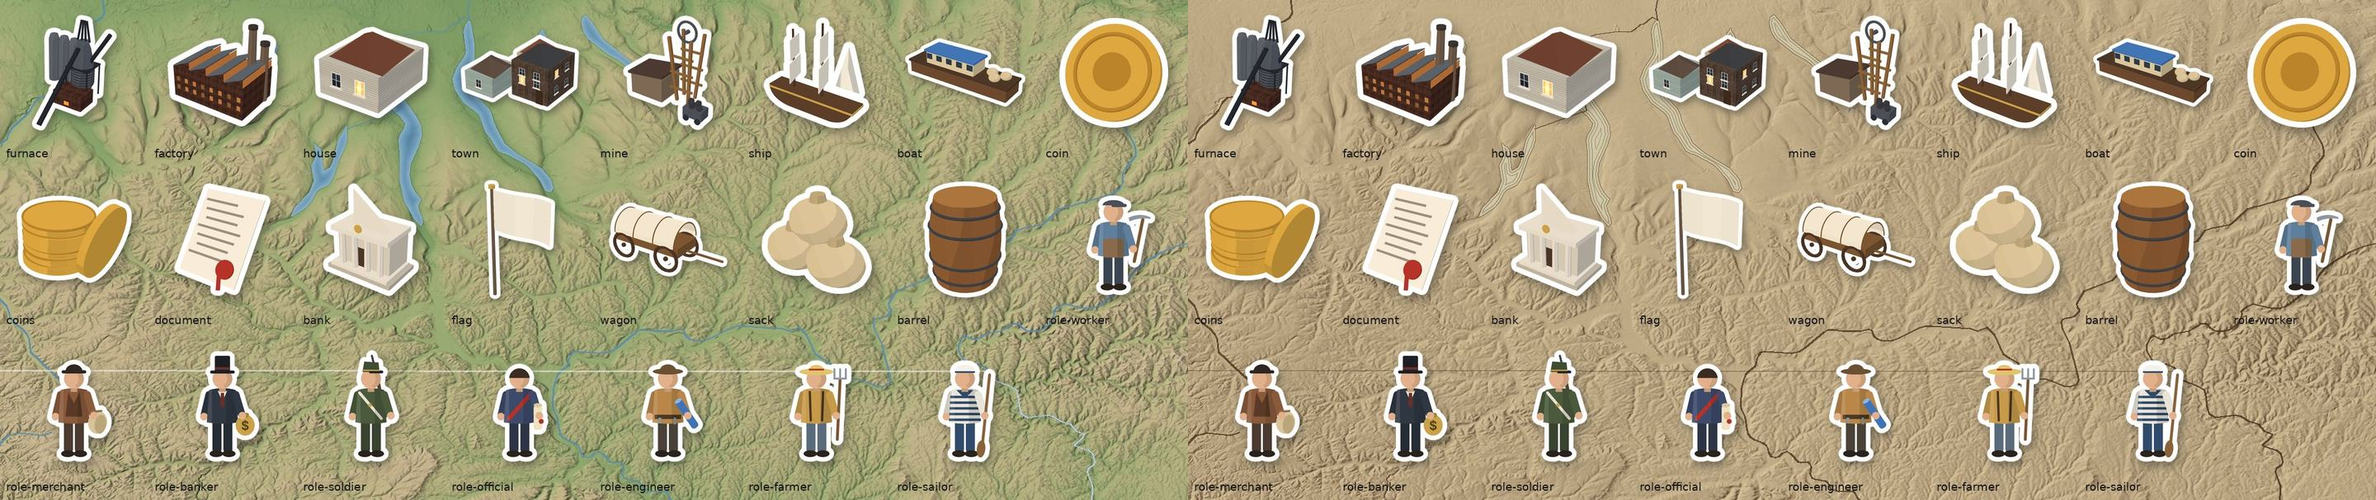
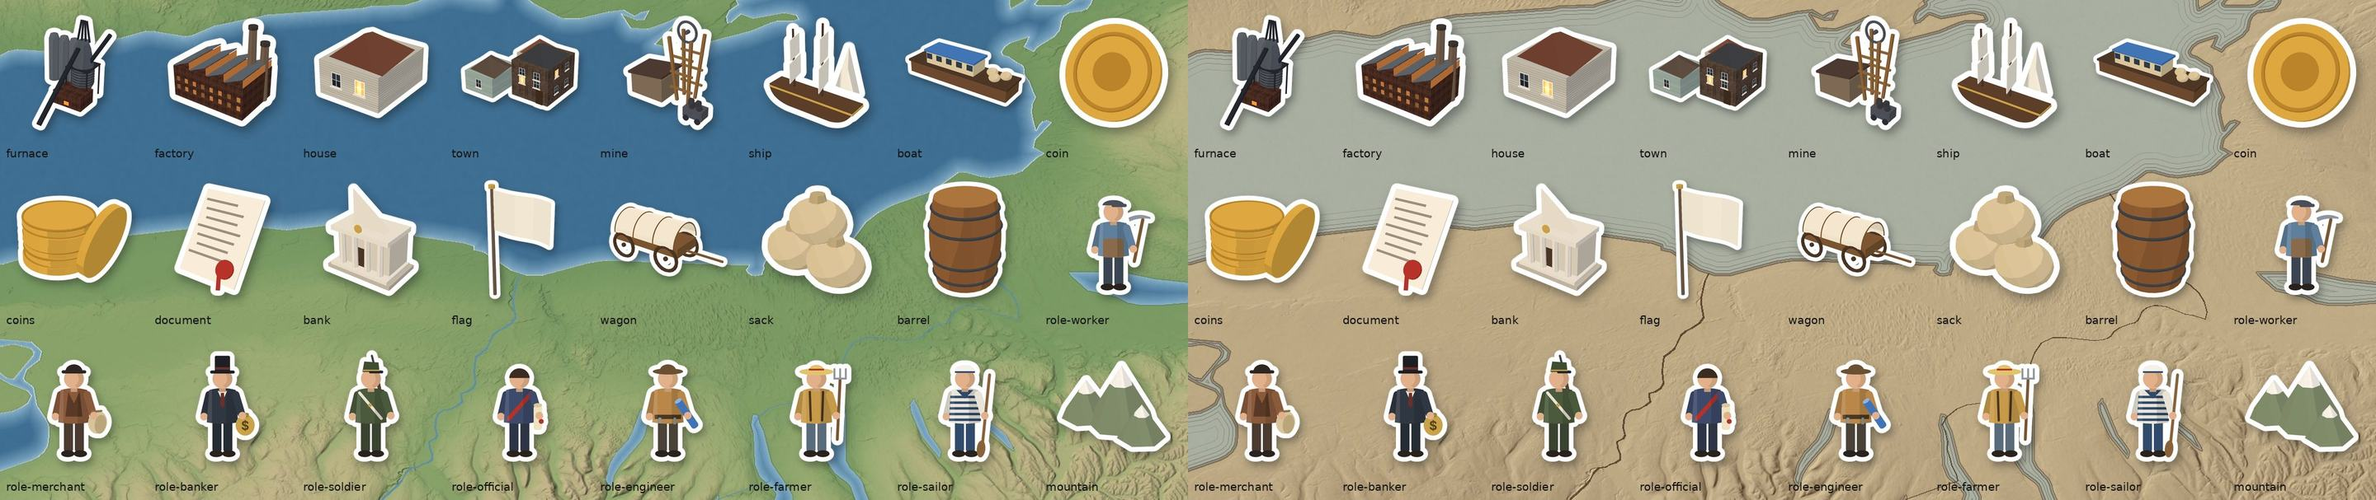
K2V2 (WIP): lượt sửa sau chấm mù vòng 1 — tuyến vệt theo thuyền, khung hành trình trọn tuyến, bóng tiếp đất sticker, nhãn né hộp chiếu chồng xu, chân dung trên dải chú thích, bảng điểm lệch phải + chú giải, dòng nguồn sáng hơn; vshot --par; blind_v2 rejudge
Claude-Session: https://claude.ai/code/session_01TSPWPTKfPFo3kwTgNVfyz3

diff --git a/scripts/k2/lib/k2.js b/scripts/k2/lib/k2.js
@@ -47,8 +47,9 @@ function kindTag(g, kind, x, y, a = 1, align = 'left') { if (a <= 0.01 || !kind)
   g.save(); g.globalAlpha *= a; g.strokeStyle = pj ? K.amber : K.steel; g.lineWidth = 2.4; if (pj) g.setLineDash([9, 6]); g.strokeRect(x0, y - h / 2, wd, h); g.restore();
   text(g, s, x0 + p * 0.45, y + 1, p, pj ? K.amber : K.dim, { a, w: 700, base: 'middle' }); return wd; }
 function srcLine(g, s, x, y, a = 1, align = 'left') { if (!s || !String(s).trim()) return; const mw = V ? W - 2 * 70 : 1500;
-  if (tw(g, s, MINPX, 500) <= mw) { text(g, s, x, y, MINPX, K.dim, { a, w: 500, align, maxW: mw }); return; }
-  const L = wrap(g, s, mw, MINPX, 500); L.forEach((l, i) => text(g, l, x, y - (L.length - 1 - i) * MINPX * 1.25, MINPX, K.dim, { a, w: 500, align, maxW: mw })); }   // nguồn dài: xuống dòng, không tràn (Q22)
+  const SC = '#D6DDE4';   /* V2 14/10: K.dim → sáng hơn (3 người chấm mù: dòng nguồn xám, nhỏ, khó đọc trên điện thoại) */
+  if (tw(g, s, MINPX, 500) <= mw) { text(g, s, x, y, MINPX, SC, { a, w: 500, align, maxW: mw }); return; }
+  const L = wrap(g, s, mw, MINPX, 500); L.forEach((l, i) => text(g, l, x, y - (L.length - 1 - i) * MINPX * 1.25, MINPX, SC, { a, w: 500, align, maxW: mw })); }   // nguồn dài: xuống dòng, không tràn (Q22)
 
 // ---------- cảnh 3D nền ----------
 LL.camNear = Infinity;
@@ -78,11 +79,14 @@ function tags(g, p, t, list) { for (const L of list || []) { const u = vis(t, L.
   const big = !!L.big, px = (L.px || (big ? 54 : 36)) * S, spx = (L.spx || 32) * S, w1 = tw(g, L.s, px, 700, big), w2 = L.sub ? tw(g, L.sub, spx, 500) : 0, kw = L.kind ? tw(g, L.kind === 'projection' ? 'PROJECTION' : 'ACTUAL', MINPX * 0.9, 700) + MINPX * 1.4 : 0;
   const bw = Math.max(w1 + kw, w2) + 46, bh = (L.sub ? px * 1.2 + spx * 1.35 : px * 1.2) + 26, gap = (L.gap === undefined ? 30 : L.gap) * S, side = L.side || 'right', c = L.c || K.orange;
   const yMax = (p.src || p.cap) ? (V ? SAFE.y1 - 150 * S : Math.min(SAFE.y1 - 150 * S, H * 0.735 + 10)) : SAFE.y1;   // không đè dải chú thích/dòng nguồn (13/10: 16:9 chặn ở đỉnh câu chú thích, nhãn 317 từng đè câu ở ch_mpls)
-  const boxOf = (sd) => { let x = sd === 'right' ? A.x + gap : sd === 'left' ? A.x - gap - bw : A.x - bw / 2, y = sd === 'up' ? A.y - gap - bh : sd === 'down' ? A.y + gap : A.y - bh / 2;
+  // side 'auto': khi neo nằm trong hộp một vật (chồng xu, sticker), khoảng cách tính từ MÉP hộp đó, không từ tâm neo
+  const own = side === 'auto' ? (LL.occ || []).find((o) => A.x >= o[0] - 2 && A.x <= o[2] + 2 && A.y >= o[1] - 12 && A.y <= o[3] + 2) : null;
+  const boxOf = (sd) => { let x = sd === 'right' ? (own ? own[2] + 18 : A.x + gap) : sd === 'left' ? (own ? own[0] - 18 : A.x - gap) - bw : A.x - bw / 2, y = sd === 'up' ? (own ? Math.min(own[1], A.y) - 18 : A.y - gap) - bh : sd === 'down' ? (own ? own[3] + 18 : A.y + gap) : A.y - bh / 2;
     return [Math.max(SAFE.x0, Math.min(SAFE.x1 - bw, x)), Math.max(SAFE.y0, Math.min(yMax - bh, y))]; };
   // V2 (BAI-HOC-K2 K11): side 'auto' = hướng đầu tiên trong up/right/left/down không chạm hộp sticker/nhãn đã vẽ ở khung này (LL.occ); giữ hướng đã chọn để nhãn không nhảy
-  let side2 = side; if (side === 'auto') { const occ = LL.occ || [], hit = ([x, y]) => occ.reduce((m, o) => m + Math.max(0, Math.min(x + bw, o[2]) - Math.max(x, o[0])) * Math.max(0, Math.min(y + bh, o[3]) - Math.max(y, o[1])), 0);
-    const cand = (L.prefer || ['up', 'right', 'left', 'down']); if (!L._side || hit(boxOf(L._side)) > 0) { let best = null; for (const sd of cand) { const h2 = hit(boxOf(sd)); if (!best || h2 < best[1]) best = [sd, h2]; if (!h2) break; } L._side = best[0]; } side2 = L._side; }
+  let side2 = side; if (side === 'auto') { const occ = LL.occ || [];
+    const hit2 = ([x, y]) => occ.reduce((m, o) => m + Math.max(0, Math.min(x + bw, o[2]) - Math.max(x, o[0])) * Math.max(0, Math.min(y + bh, o[3]) - Math.max(y, o[1])), 0);   /* tính cả hộp của chính vật: hướng bị kẹp vào lề an toàn có thể trượt đè lên vật (nháp V2, nhãn 1/10) */
+    const cand = (L.prefer || ['up', 'right', 'left', 'down']); if (!L._side || hit2(boxOf(L._side)) > 0) { let best = null; for (const sd of cand) { const h2 = hit2(boxOf(sd)); if (!best || h2 < best[1]) best = [sd, h2]; if (!h2) break; } L._side = best[0]; } side2 = L._side; }
   let [bx, by] = boxOf(side2); (LL.occ = LL.occ || []).push([bx, by, bx + bw, by + bh]);
   if (gap > 6 * S) { const ex = Math.max(bx, Math.min(bx + bw, A.x)), ey = Math.max(by, Math.min(by + bh, A.y)); g.save(); g.globalAlpha *= u; g.strokeStyle = c; g.lineWidth = 2.5; g.beginPath(); g.moveTo(A.x, A.y); g.lineTo(ex, ey); g.stroke();
     if (!L.nodot) { g.fillStyle = c; g.beginPath(); g.arc(A.x, A.y, 5.5, 0, 7); g.fill(); } g.restore(); }
@@ -111,6 +115,11 @@ function title(g, p, t) { const T = p.title; if (!T) return; const u = vis(t, T.
   text(g, T.t, cx, cy, (V ? 120 : 132) * (T.scale || 1), K.text, { a: u, w: 700, disp: true, align: 'center', maxW: W - 200 });
   g.save(); g.globalAlpha *= u; g.fillStyle = K.orange; g.fillRect(cx - 60, cy + 34, 120 * eo((t - (T.at || 0)) / 0.8), 6); g.restore();
   if (T.sub) para(g, T.sub, cx, cy + (V ? 130 : 110), V ? W - 160 : 1400, (V ? 50 : 44), K.dim, { a: u, w: 500, align: 'center' }); }
+// V2: chip năm lớn (mốc thời gian của bản đồ quá khứ): p.year = {s, at, out, c}; góc trên trái, chữ display 64 px
+function yearChip(g, p, t) { const Y = p.year; if (!Y) return; const u = vis(t, Y.at === undefined ? p.t0 : Y.at, Y.out, 0.5); if (u <= 0.01) return;
+  const px = 64 * S, w = tw(g, Y.s, px, 700, true) + 56, h = px * 1.45, x = SAFE.x0, y = V ? 210 : 62, sc = backOut(cl((t - (Y.at || 0)) / 0.45));
+  g.save(); g.translate(x + w / 2, y + h / 2); g.scale(sc, sc); g.translate(-(x + w / 2), -(y + h / 2)); panel(g, x, y, w, h, { a: u, fill: 'rgba(12,18,27,0.92)', stroke: Y.c || K.amber, r: 12 });
+  text(g, Y.s, x + w / 2, y + h / 2 + px * 0.36, px, Y.c || K.amber, { a: u, w: 700, disp: true, align: 'center' }); g.restore(); (LL.occ = LL.occ || []).push([x, y, x + w, y + h]); }
 function asof(g, p, t) { if (!p.asof) return; const u = vis(t, p.asofAt === undefined ? p.t0 : p.asofAt); const s = p.asof === true ? 'Facts as of 11 Oct 2026' : p.asof;
   const px = 30 * S, wd = tw(g, s, px, 600) + 40, x = W - SAFE.x0 - wd, y = p.asofY !== undefined ? p.asofY : V ? 210 : (p.card ? 28 : 56);   /* asofY: Short có hook 2 dòng đặt nhãn dưới dải hook */ panel(g, x, y, wd, px * 1.7, { a: u, stroke: 'rgba(242,193,78,0.6)' }); text(g, s, x + 20, y + px * 1.18, px, K.amber, { a: u, w: 600 }); }
 
@@ -127,7 +136,10 @@ function stickers(g, p, t) { if (!p.stickers || !window.STK) return;
     if (S.walk) { const ph = (t - at) * (S.hz || 2.4) * Math.PI; hop = Math.abs(Math.sin(ph)) * px * 0.07; rot = Math.sin(ph) * 0.05; }
     else if (S.bob !== false) { rot = Math.sin((t - at) * 1.7 + (S.ph || 0)) * 0.025; }
     let flip = S.flip === true; if (S.flip === 'auto' || (S.walk && S.flip === undefined)) { const B = anc(p, t + 2 / FPS, S.a), Bp = anc(p, t - 2 / FPS, S.a); if (B && Bp && Math.abs(B.x - Bp.x) > 0.4) flip = B.x < Bp.x; else flip = !!S.lastFlip; S.lastFlip = flip; if (S.face === 'left') flip = !flip; }
-    const h = px, w = h * im.width / im.height; g.save(); g.translate(A.x + (S.dx || 0) * S_, A.y + (S.dy || 0) * S_ - hop); g.rotate(rot); g.scale(sc * (flip ? -1 : 1), sc);
+    const h = px, w = h * im.width / im.height;
+    if (S.ground !== false) { const gx = A.x + (S.dx || 0) * S_, gy = A.y + (S.dy || 0) * S_, rw = w * 0.36 * sc * (1 - 0.25 * hop / (px * 0.07 + 1e-6) * 0.5), gr = g.createRadialGradient(gx, gy, 0, gx, gy, rw);   /* bóng tiếp đất: sticker "đứng" trên bản đồ (chấm mù V2: "dán lên") */
+      gr.addColorStop(0, `rgba(20,16,10,${0.34 * sc})`); gr.addColorStop(1, 'rgba(20,16,10,0)'); g.save(); g.translate(gx, gy); g.scale(1, 0.32); g.translate(-gx, -gy); g.fillStyle = gr; g.beginPath(); g.arc(gx, gy, rw, 0, 7); g.fill(); g.restore(); }
+    g.save(); g.translate(A.x + (S.dx || 0) * S_, A.y + (S.dy || 0) * S_ - hop); g.rotate(rot); g.scale(sc * (flip ? -1 : 1), sc);
     g.drawImage(im, -w / 2, -h * 0.94, w, h); g.restore(); (LL.occ = LL.occ || []).push([A.x - w / 2 * sc, A.y - h * sc, A.x + w / 2 * sc, A.y]); LL.fill = true; } }
 const S_ = S;
 // V2: hộp chiếu của chồng xu/cột bản đồ (neo col/colL/colR của relief) vào LL.occ → nhãn side:'auto' không đè vật thể (BAI-HOC-K2 K11)
@@ -142,6 +154,7 @@ function iconImg(spec, px) { return window.STK ? STK.get(spec, px) : null; }
 function drawIcon(g, spec, cx, cy, px, a = 1) { const im = iconImg(spec, px); if (!im) return; let h = px, w = h * im.width / im.height; if (w > px * 1.15) { w = px * 1.15; h = w * im.height / im.width; }   /* sticker rộng (thuyền, xe) co theo ô, không đè chữ */ g.save(); g.globalAlpha *= a; g.drawImage(im, cx - w / 2, cy - h / 2, w, h); g.restore(); }
 function score(g, p, t) { const Sc = p.score; if (!Sc) return;
   const Cn = Sc.corner; if (Cn) { const u = vis(t, Cn.at === undefined ? p.t0 : Cn.at, Cn.out, 0.45); if (u > 0.01) { let x = SAFE.x0, y = V ? 210 : 62;
+    if (Cn.title) { const px = 32 * S, bh = 72 * S, tw0 = tw(g, Cn.title, px, 700) + 44; panel(g, x, y, tw0, bh, { a: u, fill: 'rgba(12,18,27,0.92)', r: bh / 2 }); text(g, Cn.title, x + 22, y + bh / 2 + px * 0.36, px, '#E6EBF0', { a: u, w: 700 }); x += tw0 + 14; }   /* chú giải điểm (chấm mù V2: '3 vs 0' không rõ nghĩa) */
     for (const sd of Cn.sides) { const n = Array.isArray(sd.n) ? sd.n.reduce((v, e) => (t >= e.t ? e.v : v), '') : sd.n, px = 32 * S;
       const nw = n === undefined || n === '' ? 0 : tw(g, String(n), 40 * S, 700, true) + 30, bw = 86 * S + tw(g, sd.s, px, 700) + nw + 36, bh = 72 * S;
       panel(g, x, y, bw, bh, { a: u, fill: 'rgba(12,18,27,0.92)', stroke: sd.c, r: bh / 2 }); drawIcon(g, sd.icon, x + 44 * S, y + bh / 2, 58 * S, u);
@@ -149,17 +162,17 @@ function score(g, p, t) { const Sc = p.score; if (!Sc) return;
       if (nw) { const bx = x + bw - nw - 8; g.save(); g.globalAlpha *= u; g.fillStyle = sd.c; rrect(g, bx, y + 10, nw, bh - 20, (bh - 20) / 2); g.fill(); g.restore(); text(g, String(n), bx + nw / 2, y + bh / 2 + 14 * S, 40 * S, K.ink, { a: u, w: 700, disp: true, align: 'center' }); }
       x += bw + 18; } } }
   const Bd = Sc.board; if (!Bd) return; const u = vis(t, Bd.at === undefined ? p.t0 : Bd.at, Bd.out, 0.5); if (u <= 0.01) return;
-  const n = Bd.rows.length, rh = V ? 150 : 104, hh = V ? 190 : 150, bw = V ? 960 : 1340, top0 = Bd.title ? (V ? 90 : 72) : 0, bh = top0 + hh + n * rh + (Bd.foot ? 70 : 30), bx = (W - bw) / 2;
+  const n = Bd.rows.length, rh = V ? 150 : 108, hh = V ? 190 : 150, bw = V ? 960 : (Bd.w || 1340), top0 = Bd.title ? (V ? 90 : 72) : 0, bh = top0 + hh + n * rh + (Bd.foot ? 70 : 30), bx = !V && Bd.align === 'right' ? W - SAFE.x0 - bw : (W - bw) / 2;   /* align right: lộ bản đồ bên trái (chấm mù V2: bảng che bản đồ) */
   const by = Math.max(SAFE.y0 + (Cn ? 90 : 0), (H - bh) / 2 - (V ? 0 : 10)), sl = eo(u);
   g.save(); g.translate(0, (1 - sl) * 40); panel(g, bx, by, bw, bh, { a: u, fill: 'rgba(12,18,27,0.93)', r: 18 });
-  if (Bd.title) text(g, Bd.title, W / 2, by + 58, 40 * S, K.dim, { a: u, w: 700, align: 'center' });
-  const cx = [bx + bw * 0.22, bx + bw * 0.78], mid = W / 2;
+  const cx = [bx + bw * 0.22, bx + bw * 0.78], mid = bx + bw / 2;
+  if (Bd.title) text(g, Bd.title, mid, by + 58, 40 * S, '#E6EBF0', { a: u, w: 700, align: 'center' });
   Bd.sides.forEach((sd, i) => { const y = by + top0 + hh / 2; drawIcon(g, sd.icon, cx[i] - (V ? 0 : 0), y - 18, 96 * S, u); text(g, sd.s, cx[i], y + 62, 40 * S, sd.c, { a: u, w: 700, disp: true, align: 'center' });
     g.save(); g.globalAlpha *= u; g.fillStyle = sd.c; g.fillRect(cx[i] - 70, y + 76, 140, 5); g.restore(); });
   text(g, 'vs', mid, by + top0 + hh / 2 + 14, 34 * S, K.steel, { a: u, w: 600, align: 'center' });
   Bd.rows.forEach((r, i) => { const a = vis(t, r.at === undefined ? (Bd.at || p.t0) + 0.4 + i * 0.35 : r.at, undefined, 0.45) * u; if (a <= 0.01) return; const y = by + top0 + hh + i * rh;
     g.save(); g.globalAlpha *= a; g.fillStyle = i % 2 ? 'rgba(255,255,255,0.025)' : 'rgba(255,255,255,0.055)'; g.fillRect(bx + 16, y + 6, bw - 32, rh - 12); g.restore();
-    drawIcon(g, r.icon, mid - (V ? 0 : 0), y + rh * 0.36, 54 * S, a); text(g, r.k, mid, y + rh * 0.86, 30 * S, K.dim, { a, w: 600, align: 'center' });
+    drawIcon(g, r.icon, mid - (V ? 0 : 0), y + rh * 0.36, 54 * S, a); text(g, r.k, mid, y + rh * 0.88, 32 * S, '#D6DDE4', { a, w: 600, align: 'center' });
     r.v.forEach((v, j) => { const win = r.win === j, c = win ? Bd.sides[j].c : K.text; text(g, v, cx[j], y + rh * 0.62, (win ? 46 : 42) * S, c, { a, w: 700, disp: true, align: 'center' });
       if (r.sub && r.sub[j]) text(g, r.sub[j], cx[j], y + rh * 0.62 + 34 * S, 30 * S, K.dim, { a, w: 500, align: 'center' });
       if (win) { g.save(); g.globalAlpha *= a; g.strokeStyle = Bd.sides[j].c; g.lineWidth = 4; const ww = tw(g, v, 46 * S, 700, true); rrect(g, cx[j] - ww / 2 - 22, y + rh * 0.62 - 50 * S, ww + 44, 66 * S, 33 * S); g.stroke(); g.restore(); } }); LL.fill = true; });
@@ -271,7 +284,7 @@ TPL.plate = (p) => ({ kind: 'full', full(g, t) {
   drawPlate(g, p, t, blur, dim); if (!c) { labels(g, p, t); title(g, p, t); }
   if (c) { const u = vis(t, c.in === undefined ? p.t0 : c.in, c.out, 0.5); cardFrame(g, c, t, u); (TPLC[c.type] || (() => {}))(g, c, t, u); LL.fill = true;
     if (p.src) srcLine(g, p.src, CARD.x + 50, CARD.y + CARD.h - 34, u); }
-  else { colOcc(p, t); stickers(g, p, t); caps(g, p, t); tags(g, p, t, p.places); tags(g, p, t, p.tags); score(g, p, t); }   // V2: sticker dưới dải chú thích; bảng điểm trên cùng   // nhãn k2v vẽ SAU dải chú thích/nguồn: dải tối của caps phủ mờ nhãn ở 1/3 dưới khung (chấm mù P2, 12/10)
+  else { colOcc(p, t); yearChip(g, p, t); stickers(g, p, t); caps(g, p, t); tags(g, p, t, p.places); tags(g, p, t, p.tags); score(g, p, t); }   // V2: sticker dưới dải chú thích; bảng điểm trên cùng   // nhãn k2v vẽ SAU dải chú thích/nguồn: dải tối của caps phủ mờ nhãn ở 1/3 dưới khung (chấm mù P2, 12/10)
   const kd = p.__kind === undefined ? (p.__kind = /"kind":"projection"/.test(JSON.stringify(p)) ? 'projection' : /"kind":"actual"/.test(JSON.stringify(p)) ? 'actual' : '') : p.__kind;
   if (kd) { if (c) kindTag(g, kd, CARD.x + CARD.w - 40, CARD.y + CARD.h - 44, vis(t, c.in === undefined ? p.t0 : c.in, c.out, 0.5), 'right'); else if (V) kindTag(g, kd, W / 2, H * 0.70 - 24, 1, 'center'); else kindTag(g, kd, W - SAFE.x0, H - (EDGE_B + 14), 1, 'right'); }   // 9:16: trên dải chú thích (13/10: ở H−330 đè dòng nguồn 2 dòng)   // Q7: shot có số → nhãn ACTUAL/PROJECTION
   asof(g, p, t); } });

diff --git a/design/k2v/relief.js b/design/k2v/relief.js
@@ -184,7 +184,7 @@ export const HEROES = {
     // ---- neo
     for (const p of o.places || []) { const id = typeof p === 'string' ? p : p.id, [lon, lat] = LL(id), v = new THREE.Vector3(); anchors[id] = () => v.set(X(lon), ground(lon, lat) + 0.2, Z(lat)); }
     for (const p of o.pins || []) { const [lon, lat] = LL(p.at), v = new THREE.Vector3(); anchors['st:' + p.id] = () => v.set(X(lon) + (p.dx || 0), ground(lon, lat) + (p.dy || 0.3), Z(lat) + (p.dz || 0)); }
-    const walkers = (o.walkers || []).map((w) => { const v = new THREE.Vector3(); let cur = null; anchors['st:' + w.id] = () => cur; return { w, v, set(t) { const R = routes[w.route]; if (!R) return; const uu = w.u || [0, 1], u = lerp(uu[0], uu[1], cl((t - w.t[0]) / (w.t[1] - w.t[0])));
+    const walkers = (o.walkers || []).map((w) => { const v = new THREE.Vector3(); let cur = null; anchors['st:' + w.id] = () => cur; return { w, v, u: 0, set(t) { const R = routes[w.route]; if (!R) return; const uu = w.u || [0, 1], u = lerp(uu[0], uu[1], cl((t - w.t[0]) / (w.t[1] - w.t[0]))); this.u = cl(u);
       const [lon, lat] = R.at(u); cur = v.set(X(lon), ground(lon, lat) + 0.3, Z(lat)); } }; });
     for (const R of rmeshes) anchors['rt:' + R.r.id] = () => R.head.visible ? R.head.position : null;
     // ---- palette
@@ -207,6 +207,7 @@ export const HEROES = {
             g.position.set(d.ox, d.y + (1 - eo(u)) * 6 + Math.sin(cl(u * 1.4) * Math.PI) * 0.0, d.oz); g.rotation.z = d.rz * (1 - u) * 6 + d.rz; });
             cc.grp.visible = cc.items.some((g) => g.visible); cc.sh.material.opacity = cc.grp.visible ? 1 : 0; } }
         for (const w of walkers) w.set(t);
+        for (const R of rmeshes) if (R.r.trail) { const w = walkers.find((x) => x.w.id === R.r.trail); if (w) { const d = Math.max(0, w.u) * R.L; R.line.material.uniforms.draw.value = d; R.glow.material.uniforms.draw.value = d; R.head.visible = false; } }   /* trail: tuyến vẽ theo đúng vị trí vật đi (vệt sau thuyền) */
       } };
     return self;
   },

diff --git a/scripts/k2/vshot.py b/scripts/k2/vshot.py
@@ -34,7 +34,8 @@ def main():
     if bad: sys.exit(f'LẶP GÓC MÁY: {bad}')
     spp = int(arg('spp', E.get('spp', 4))); draft = '--draft' in sys.argv; meas = int(arg('measure', 0))
     W, H = (960, 540) if draft else (1920, 1080)
-    TL = dict(id=sid, title=E.get('title'), segments=[], shorts=[], heroes={}); M = []; t_abs = 0.0; gi = 0
+    TL = dict(id=sid, title=E.get('title'), segments=[], shorts=[], heroes={}); M = []; t_abs = 0.0; gi = 0; JOBS = []
+    par = int(arg('par', 1))   # V2: --par N dựng N cảnh 3D song song (đo giờ máy: ghi cả đồng hồ thật)
     for sg in E['segments']:
         dur = float(sg['dur']); frames = int(round(dur * FPS)); ats = [float(s.get('at', 0)) for s in sg['shots']]; shots = []
         for i, sh in enumerate(sg['shots']):
@@ -47,18 +48,25 @@ def main():
             sf = os.path.join(hdir, 'vshot.stamp'); fresh = os.path.exists(os.path.join(hdir, 'meta.json')) and open(sf).read() == st if os.path.exists(sf) else False
             if meas or not fresh:
                 if not meas and os.path.isdir(hdir) and not os.path.exists(sf) and os.path.exists(os.path.join(hdir, 'meta.json')) and '--keep' in sys.argv: fresh = True   # khung dựng trước khi có stamp
-            if meas or not fresh:
-                r = subprocess.run(cmd, stderr=subprocess.PIPE, text=True)
-                if r.returncode: print(r.stderr[-3000:]); sys.exit(f'lỗi cảnh 3D {sg["id"]}/{i}')
-                if not meas: open(sf, 'w').write(st)
-            meta = json.load(open(os.path.join(hdir, 'meta.json'))); MT = prep.shot_meta(E, sh)
-            M.append(dict(seg=sg['id'], shot=i, hero=h['hero'], type=MT['type'], w=W, h=H, spp=spp, s_per_frame=meta['s_per_frame'], frames=meta['frames']))
+            if meas or not fresh: JOBS.append((cmd, None if meas else (sf, st), f'{sg["id"]}/{i}'))
+            MT = prep.shot_meta(E, sh); M.append(dict(seg=sg['id'], shot=i, hero=h['hero'], type=MT['type'], w=W, h=H, spp=spp, _dir=hdir))
             p = dict(sh['p']); p['dir'] = hdir; p['stamp'] = 'vshot'
             shots.append(dict(tpl=sh.get('tpl', 'plate'), t0=t0, t1=t1, p=p, **({'in': {'type': sh.get('in', 'cut'), 'd': 0.7}} if i else {}), **MT))
             TL['heroes'][k] = dict(hero=h['hero'], variant=h.get('variant', 'a'), opt=h.get('opt', {}), dur=hd, size=[W, H], dir=hdir, stamp='vshot')
         TL['segments'].append(dict(id=sg['id'], part=sg.get('part', 'BODY'), t0=round(t_abs, 4), t1=round(t_abs + dur, 4), frames=frames, vo_file=None, vo_offset=0, vo_len=0,
                                    speech=[], shots=shots, sfx=[], fadeIn=sg.get('fadeIn', 6), fadeOut=sg.get('fadeOut', 6)))
         t_abs += dur
+    t_wall = time.time()
+    def run(job):
+        cmd, stamp, tag = job; r = subprocess.run(cmd, stderr=subprocess.PIPE, text=True)
+        if r.returncode: print(r.stderr[-3000:]); return f'lỗi cảnh 3D {tag}'
+        if stamp: open(stamp[0], 'w').write(stamp[1])
+    from concurrent.futures import ThreadPoolExecutor
+    with ThreadPoolExecutor(max(1, par)) as ex: errs = [e for e in ex.map(run, JOBS) if e]
+    if errs: sys.exit('; '.join(errs))
+    if JOBS: print(json.dumps(dict(dung_canh=len(JOBS), song_song=par, dong_ho_s=round(time.time() - t_wall, 1))), file=sys.stderr)
+    for m in M:
+        meta = json.load(open(os.path.join(m.pop('_dir'), 'meta.json'))); m.update(s_per_frame=meta['s_per_frame'], frames=meta['frames'])
     TL['tong_s'] = round(t_abs, 4); TL['tong_khung'] = sum(s['frames'] for s in TL['segments'])
     json.dump(M, open(os.path.join(out, f'measure-spp{spp}{"-d" if draft else ""}.json'), 'w'), indent=1)
     print(json.dumps(M, ensure_ascii=False))

diff --git a/RIGHTS.md b/RIGHTS.md
@@ -186,7 +186,7 @@ Danh sách trắng: ảnh/phim do chính phủ liên bang Mỹ tạo ra (NARA, c
 | K2V-DOC-5 | Trang DỰNG LẠI CHỮ: trích 12 CFR §1282.1 (định nghĩa single-family/multifamily) — `scripts/k2/textpage.py`, spec `channel-k2/k2c-t1-06/trang/cfr-1282-1.json` | Văn bản chính phủ (quy định liên bang) | https://www.ecfr.gov/current/title-12/chapter-XII/subchapter-E/part-1282/subpart-A/section-1282.1 | FHFA / Office of the Federal Register | Tác phẩm của Chính phủ Hoa Kỳ (17 U.S.C. §105) | Được mọi phạm vi | — | (spec commit; ảnh dựng ở cache) | 2026-10-13 |
[1 lines of base64/hex data omitted]
 
-| K2V2-DEM-1 | USGS 3DEP **1 arc-second** DEM, 52 ô 1°×1° (n40–n45 × w073–w081; ô biển n40w073/n40w074 không tồn tại) — ghép, hạ còn 6″ (~140–185 m), tô bóng nhiều hướng, lưới độ cao 1080×720 bằng `scripts/k2/relief_build.py`; bản dẫn xuất `relief/erie/{natural,sepia}.jpg, height.f32` (cache, **không commit**) | Dữ liệu độ cao (raster) | https://prd-tnm.s3.amazonaws.com/StagedProducts/Elevation/1/TIFF/current/ (siêu dữ liệu `USGS_1_<ô>.xml`) | U.S. Geological Survey (3DEP; phần ngoài Mỹ do USGS tổng hợp vào lớp liền mạch: "best available raster elevation data of the conterminous United States, Alaska, Hawaii, territorial islands, Mexico and Canada") | Tác phẩm của Chính phủ Hoa Kỳ (17 U.S.C. §105). Siêu dữ liệu: "Access constraints: None." · "Acknowledgement of the originating agencies would be appreciated in products derived from these data. Any user who modifies the data is obligated to describe the types of modifications they perform. User specifically agrees not to misrepresent the data, nor to imply that changes made were approved or endorsed by the USGS." | Được mọi phạm vi (không hàm ý USGS bảo trợ) | Ghi trên hình: "Terrain: USGS 3DEP"; mô tả ghi thêm "elevation exaggerated, shaded and recolored" (mô tả sửa đổi theo siêu dữ liệu) | SHA từng ô: `relief/erie/meta.json` (cache) và `channel-k2/k2v2-mau/relief-erie-meta.json` (commit) · natural.jpg `a7344466…` · sepia.jpg `6a93142d…` · height.f32 `397b1798…` | 2026-10-14 |
+| K2V2-DEM-1 | USGS 3DEP **1 arc-second** DEM, 78 ô 1°×1° trong khung 82°W–71°W × 39°N–46°N (ô toàn biển như n40w072–n40w074, n41w072 không tồn tại) — ghép, hạ còn 6″ (~140–185 m), tô bóng nhiều hướng, lưới độ cao 825×525 bằng `scripts/k2/relief_build.py`; bản dẫn xuất `relief/erie/{natural,sepia}.jpg, height.f32` (cache, **không commit**) | Dữ liệu độ cao (raster) | https://prd-tnm.s3.amazonaws.com/StagedProducts/Elevation/1/TIFF/current/ (siêu dữ liệu `USGS_1_<ô>.xml`) | U.S. Geological Survey (3DEP; phần ngoài Mỹ do USGS tổng hợp vào lớp liền mạch: "best available raster elevation data of the conterminous United States, Alaska, Hawaii, territorial islands, Mexico and Canada") | Tác phẩm của Chính phủ Hoa Kỳ (17 U.S.C. §105). Siêu dữ liệu: "Access constraints: None." · "Acknowledgement of the originating agencies would be appreciated in products derived from these data. Any user who modifies the data is obligated to describe the types of modifications they perform. User specifically agrees not to misrepresent the data, nor to imply that changes made were approved or endorsed by the USGS." | Được mọi phạm vi (không hàm ý USGS bảo trợ) | Ghi trên hình: "Terrain: USGS 3DEP"; mô tả ghi thêm "elevation exaggerated, shaded and recolored" (mô tả sửa đổi theo siêu dữ liệu) | SHA từng ô: `relief/erie/meta.json` (cache) và `channel-k2/k2v2-mau/relief-erie-meta.json` (commit) · natural.jpg `fab50cdd…` · sepia.jpg `c1521932…` · height.f32 `b23087ad…` | 2026-10-14 |
 | K2V2-MAP-1 | Natural Earth **1:10m** 5.1: lakes, lakes_north_america, ocean, rivers_lake_centerlines, rivers_north_america, land, admin_1_states_provinces_lakes (zip, cache, **không commit**) — mặt nạ nước, sông, ranh giới bang/tỉnh, tuyến "Erie Canal"/"Mohawk"/"Hudson" | Dữ liệu bản đồ vector | https://naciscdn.org/naturalearth/10m/ | Natural Earth | "All versions of Natural Earth raster + vector map data found on this website are in the public domain." — https://www.naturalearthdata.com/about/terms-of-use/ | Được mọi phạm vi | Không bắt buộc; ghi "Map: Natural Earth" | SHA từng zip: `channel-k2/k2v2-mau/relief-erie-meta.json` | 2026-10-14 |
 | K2V2-MAP-2 | Gazetteer bổ sung `design/k2v/data/places-relief.json` (18 địa danh NY/PA) | Dữ kiện địa lý | tự soạn từ toạ độ công khai | Phiên V2 | Dữ kiện (không thuộc bản quyền) | Được mọi phạm vi | — | (commit) | 2026-10-14 |
 | K2V2-STK-1 | Thư viện sticker `design/k2v/stickers/*.png` (16 vật + 8 vai): vật render từ mô hình three.js của dự án (lò cao, xưởng K2G-01; nhà K2C-T1-06) và vật mới tự dựng (`design/k2v/sticker-lab.js`); 8 vai A-lite vẽ vector (`scripts/k2/lib/sticker.js`) | Đồ hoạ tự dựng | tạo lại: `node scripts/k2/stickers_build.js` | CINE LAB (Claude, phiên V2, theo chỉ đạo chủ dự án) | Tác phẩm của dự án — không dùng hình, biểu tượng, thumbnail hay chữ của kênh khác; không công cụ tạo ảnh AI ngoài | Được mọi phạm vi | — | từng tệp: `design/k2v/stickers/stickers.json` | 2026-10-14 |

diff --git a/design/k2v/README.md b/design/k2v/README.md
@@ -74,6 +74,7 @@ Công thức "bản đồ nổi + sticker" học từ thể loại (không dùng
 - **Tuyến** `routes`:
   - `style: solid|dashed`; nét đứt "chảy" theo `flow` km/s; vẽ dần theo `draw`; đầu sáng.
   - Độ dày `w` tính theo px khung 1080p, giữ nguyên khi máy zoom.
+  - `trail: <walker id>`: tuyến vẽ đúng tới vị trí vật đang đi (vệt sau thuyền), thay cho `draw`.
   - `pts` trộn địa danh, `[lon, lat]` và đoạn của đường Natural Earth `{src, from, to}`.
 - **Vòng sáng** `rings` (3 vòng lan, cỡ theo px). **Neo:** địa danh, `st:<id>` (`pins`, `walkers` chạy theo tuyến), `col:<id>` (đỉnh chồng xu/cột), `rt:<id>` (đầu tuyến).
 - **Số liệu trên bản đồ** `cols: [{id, at, kind: coins|bar, n|v, unit, t: [t0, t1], r}]`:
@@ -91,7 +92,8 @@ Công thức "bản đồ nổi + sticker" học từ thể loại (không dùng
 - **Lớp 2D** `p.stickers: [{a: 'st:<id>'|địa danh|'col:<id>', img: 'stk:<tên>' | {role, hat, hand} | 'role:<vai>', at, out, px, walk, hz, bob, flip|face, dx, dy}]`:
   - Bật nảy khi vào (back-out 0,42 s) và co lại khi ra.
   - `walk`: nhún theo nhịp, tự lật theo hướng đi.
-  - Vẽ dưới dải chú thích; hộp sticker ghi vào `LL.occ` để nhãn né.
+  - Bóng tiếp đất mềm dưới chân (`ground: false` để tắt), để sticker "đứng" trên bản đồ.
+  - Vẽ dưới dải chú thích; hộp sticker và hộp chiếu chồng xu (`colL/colR`) ghi vào `LL.occ` để nhãn né.
 - **Nhân vật A-lite** (8 vai: worker, merchant, banker, soldier, official, engineer, farmer, sailor):
   - Vẽ vector phẳng. Không mặt chi tiết, không diễn xuất, không khớp miệng.
   - Nhận ra bằng mũ + vật cầm tay, có thể thay: `STK.HATS`, `STK.HANDS`, vd. `{role: farmer, hand: wheat}`.
@@ -101,15 +103,16 @@ Công thức "bản đồ nổi + sticker" học từ thể loại (không dùng
 - `p.tags[].side: 'auto'`: chọn hướng đầu tiên trong `prefer` (mặc định up/right/left/down) không chạm hộp sticker/nhãn đã vẽ ở khung.
 - Hướng đã chọn được giữ cho tới khi bị chạm, nên nhãn không nhảy qua lại.
 ### Bảng điểm (`p.score`, component dùng lại ở `scripts/k2/lib/k2.js`)
-- `corner: {at, out, sides: [{s, c, icon, n | [{t, v}]}]}`: huy hiệu góc (biểu tượng + tên + điểm tăng theo mốc).
-- `board: {at, out, title, sides: [{s, c, icon}], rows: [{k, icon, v: [trái, phải], win, at, sub}], foot}`: bảng tổng kết hai phía.
+- `corner: {at, out, title, sides: [{s, c, icon, n | [{t, v}]}]}`: huy hiệu góc (biểu tượng + tên + điểm tăng theo mốc); `title` (vd. "Rows won:") giải thích con số.
+- `board: {at, out, title, align: 'right', w, sides: [{s, c, icon}], rows: [{k, icon, v: [trái, phải], win, at, sub}], foot}`: bảng tổng kết hai phía; `align: right` + `w` để lộ bản đồ bên trái; hàng không có `win` thì không khoanh.
   - Mỗi hàng có biểu tượng sticker; ô thắng được khoanh viền màu phía thắng.
   - Các hàng hiện lần lượt.
   - Nền là bản đồ thật làm tối (`p.dim`), không làm mờ (K11: thẻ tóm tắt có biểu tượng cho từng mục).
 
 ## Công cụ
 - `scripts/k2/k2v_assets.py` — tải tài sản (SHA ghim `scripts/k2/k2v-assets.sha.json`), Blue Marble toàn cầu/vùng, ảnh tư liệu, trang PDF + khung highlight, bảng giấy phép.
+- `scripts/k2/relief_build.py` (nền bản đồ nổi), `scripts/k2/stickers_build.js` + `stickers_sheet.py` (thư viện sticker), `scripts/k2/reel_sheet.py` (tờ khung cuộn mẫu) — V2.
 - `scripts/k2/stock.py` — Pexels/Pixabay: tìm (cache 24 giờ), tải qua CDN, SHA, dòng `SOURCES-FOOTAGE.csv`.
-- `scripts/k2/vshot.py` — dựng shot mẫu độc lập từ đặc tả dạng episode (1080p, SPP chọn được), xuất `timeline.json` để chạy `checks/ll/q_types.py`, `q_scene.py`, `q_footage.py`.
+- `scripts/k2/vshot.py` — (`--par N`: dựng N cảnh 3D song song, V2) dựng shot mẫu độc lập từ đặc tả dạng episode (1080p, SPP chọn được), xuất `timeline.json` để chạy `checks/ll/q_types.py`, `q_scene.py`, `q_footage.py`.
 - `scripts/k2/cams_sheet.py` — tờ khung rà preset góc máy.
 - Cài: `(cd design/k2v && npm ci)`; tài sản: `scripts/k2/k2v_assets.py fetch all && … bm-global && … bm-crop …`.

diff --git a/channel-k2/k2v2-mau/claims.md b/channel-k2/k2v2-mau/claims.md
@@ -10,7 +10,7 @@ Chọn vì bản đồ địa hình nổi tự nó cho thấy cơ chế: khe Moh
 | E1 | "1825: New York opens the Erie Canal, 363 miles from Buffalo to Albany" | "It finally opened October 26, 1825"; "four feet deep, 40 feet wide, and 363 miles long." · NPS: "the original Erie Canal traversed 363 miles from Albany to Buffalo." | LOC Research Guide (guides.loc.gov/this-month-in-business-history/october/opening-erie-canal); NPS Women's Rights NHP (nps.gov/wori/learn/historyculture/the-erie-canal.htm) |
 | E2 | "Wheat from the Genesee Valley could now float east to Albany, then down the Hudson" | "freight charges for shipping wheat from the Genesee Valley and Ohio to the port of New York dropped to a tenth of what it had previously cost to ship overland." | ECNHC, *National Significance* (PDF, eriecanalway.org) |
 | N1 | "$90–125 — a ton, Buffalo to New York, by wagon" | "Before the Canal was built, it cost between $90 and $125 to ship a ton of cargo between Buffalo and New York City" | NYS Archives Partnership Trust, "Canal at Work" (nysarchivestrust.org/exhibits/erie-canal/canal-work) |
-| N2 | "1/10 — of the old cost, once wheat went by canal"; 10 đồng vs 1 đồng (tỷ lệ thật 10 : 1) | "… dropped to a tenth of what it had previously cost to ship overland." · "Shipping costs dropped by 90 percent compared to hauling goods by ox-drawn wagon." | ECNHC *National Significance*; ECNHC History & Culture |
+| N2 | "1/10 — of the overland cost, by canal"; 10 đồng vs 1 đồng (tỷ lệ thật 10 : 1) | "… dropped to a tenth of what it had previously cost to ship overland." · "Shipping costs dropped by 90 percent compared to hauling goods by ox-drawn wagon." | ECNHC *National Significance*; ECNHC History & Culture |
 | P1 | "DeWitt Clinton, Governor of New York · painted 1826" | Tranh "De Witt Clinton", Samuel F. B. Morse, 1826; LOC: "with then Governor Clinton presiding over the official opening" | The Met 09.18; LOC Research Guide |
 | S1 | Opened 1825 · 1834 | "It finally opened October 26, 1825" · "The Portage Railroad officially opened March 18, 1834." | LOC; NPS ALPO (nps.gov/alpo/learn/historyculture/allegheny-portage-railroad.htm) |
 | S2 | Length 363 mi · 394 mi | (E1) · "The canal system was a total of 394 miles long." | NPS; NPS ALPO (pennsylvania-main-line-canal.htm) |
@@ -25,6 +25,6 @@ Chọn vì bản đồ địa hình nổi tự nó cho thấy cơ chế: khe Moh
 - **Cước vận chuyển:**
   - Câu "$100 → $10 một tấn" chỉ thấy qua kết quả tìm kiếm (NYSM, Britannica), nên không dùng.
   - Hình dùng hai số có nguyên văn đọc được: "$90–125" và "a tenth".
-  - Ghép hai số này là ghép hai nguồn có phạm vi khác nhau: một nguồn nói hàng hoá Buffalo–NYC, nguồn kia nói lúa mì Genesee/Ohio → cảng NY. Vì vậy nhãn N2 ghi "of the old cost", không quy ra đô la (BAI-HOC-K2 K1).
+  - Ghép hai số này là ghép hai nguồn có phạm vi khác nhau: một nguồn nói hàng hoá Buffalo–NYC, nguồn kia nói lúa mì Genesee/Ohio → cảng NY. Vì vậy nhãn N2 ghi "of the overland cost" (bám chữ "a tenth of what it had previously cost to ship overland"), không quy ra đô la (BAI-HOC-K2 K1).
 - **Số âu của Main Line:** không có tổng chính thức (NPS chỉ đếm từng đoạn), nên không đưa lên bảng.
 - **Dân số NYC 1820/1850 (Census WP-27):** có số, nhưng không đặt cạnh Philadelphia vì số Philadelphia chỉ tính "city" (lệch cơ sở). Không dùng trong mẫu.

diff --git a/channel-k2/K2V2-BAO-CAO.md b/channel-k2/K2V2-BAO-CAO.md
@@ -1,0 +1,68 @@
+# Kênh 2 — Bộ hình k2v nâng cấp V2: bản đồ nổi + sticker (phiên V2, 14/10/2026)
+
+Nhánh `k2-visual2` (từ `origin/main` @ `d3beb5f`; checks 1.10.2, LOCK `c598467f…`).
+
+**Phạm vi sửa:** `design/k2v/`, `scripts/k2/`, `channel-k2/k2v2-mau/` (mới), `channel-k2/K2V2-BAO-CAO.md`, `RIGHTS.md`, `assets/k2/archive/` (thêm 1 ảnh tài sản công).
+
+**Không đụng tới:**
+- Không sửa `checks/`, không đọc mã trong `checks/`; chỉ chạy công cụ của K.
+- Không sửa tệp của tập: `design/ll-hero/k2g01.js` và `k2c106.js` chỉ được nạp qua `?rx=`.
+- Không gọi công cụ tạo ảnh/video AI ngoài.
+
+**Kinh thánh kênh 2:** tệp `claude/CINE-LAB-BIBLE-KENH2.md` nằm trong Project, phiên này không đọc được (không có trong repo, không có trên Drive). Phiên làm theo đặc tả chi tiết trong lệnh giao việc. Mục cần đối chiếu nằm ở §9.
+
+@@TOM-TAT@@
+
+## 1. Đề tài mẫu và nguyên tắc nguồn
+- **Đề tài:** kênh Erie (New York, 1825) và Main Line of Public Works (Pennsylvania, 1834).
+- **Vì sao chọn:**
+  - Lịch sử hạ tầng, không có phe, không có người còn sống.
+  - Không nằm trong hàng đợi kênh 2. `market-k2/REPORT.md` không có video đối thủ nào về "canal"/"Erie".
+  - Bản đồ nổi **tự nó cho thấy cơ chế**: khe Mohawk thấp xuyên vùng đồi, so với các dãy núi gấp nếp của Pennsylvania. Đây là câu chuyện mà hình phải kể được, không phải trang trí.
+- **Nguồn số:**
+  - Mọi số và câu trên hình có nguyên văn nguồn công khai trong `channel-k2/k2v2-mau/claims.md`: LOC, NPS, NPS ALPO, ECNHC (đối tác NPS), NYS Archives Partnership Trust, The Met.
+  - Tác tử tra cứu đã đọc trang gốc. Số chỉ thấy qua kết quả tìm kiếm thì **không dùng**; ví dụ câu "$100 → $10" của NYSM và Britannica.
+- **Học công thức, không học hình:**
+  - Công thức lấy từ thể loại: bản đồ nổi, sticker viền trắng, máy trượt, vùng theo phe, bảng điểm.
+  - Không mở, không tải, không dùng hình, thumbnail hay câu chữ của kênh nào.
+  - Mọi tài sản đều tự dựng (three.js, vector), hoặc là tài sản công: USGS 3DEP, Natural Earth, The Met Open Access.
+
+## 2. Module và API (chi tiết: `design/k2v/README.md` mục E)
+### 2.1 `relief/map` — bản đồ địa hình nổi (`design/k2v/relief.js`, nền `scripts/k2/relief_build.py`)
+@@RELIEF@@
+
+### 2.2 Sticker vật — `design/k2v/stickers/` (16 vật + 8 vai), `scripts/k2/lib/sticker.js`, `design/k2v/sticker-lab.js`
+@@STICKER@@
+
+### 2.3 Nhân vật A-lite (phần nhân vật ≈ 6–8 % công sức phiên)
+@@CHAR@@
+
+### 2.4 Số liệu trên bản đồ (Q34(c))
+@@NUM@@
+
+### 2.5 Bảng điểm (component dùng lại)
+@@SCORE@@
+
+### 2.6 Sửa chung (dùng cho mọi tập kênh 2, chỉ thêm, không đổi hành vi cũ)
+@@CHUNG@@
+
+## 3. Cuộn shot mẫu (`channel-k2/k2v2-mau/K2V2-reel.yaml`, 44 s, 1080p24 SPP4)
+@@REEL@@
+
+## 4. Số đo
+@@DO@@
+
+## 5. Chấm mù (3 người chấm, model ghim)
+@@MU@@
+
+## 6. Giấy phép (chi tiết `RIGHTS.md` mục K2V2-* và dòng MET-11602)
+@@GP@@
+
+## 7. Chi phí
+@@CP@@
+
+## 8. Kiểm trước khi đẩy
+@@KIEM@@
+
+## 9. Việc đang chờ chủ dự án
+@@CHO@@
